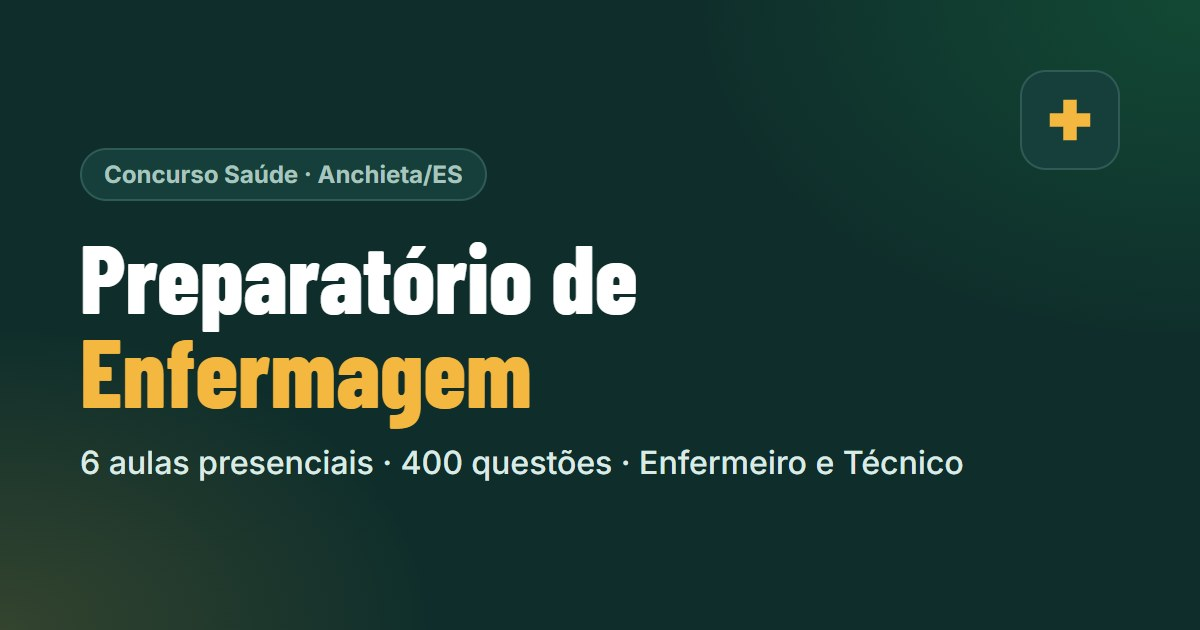
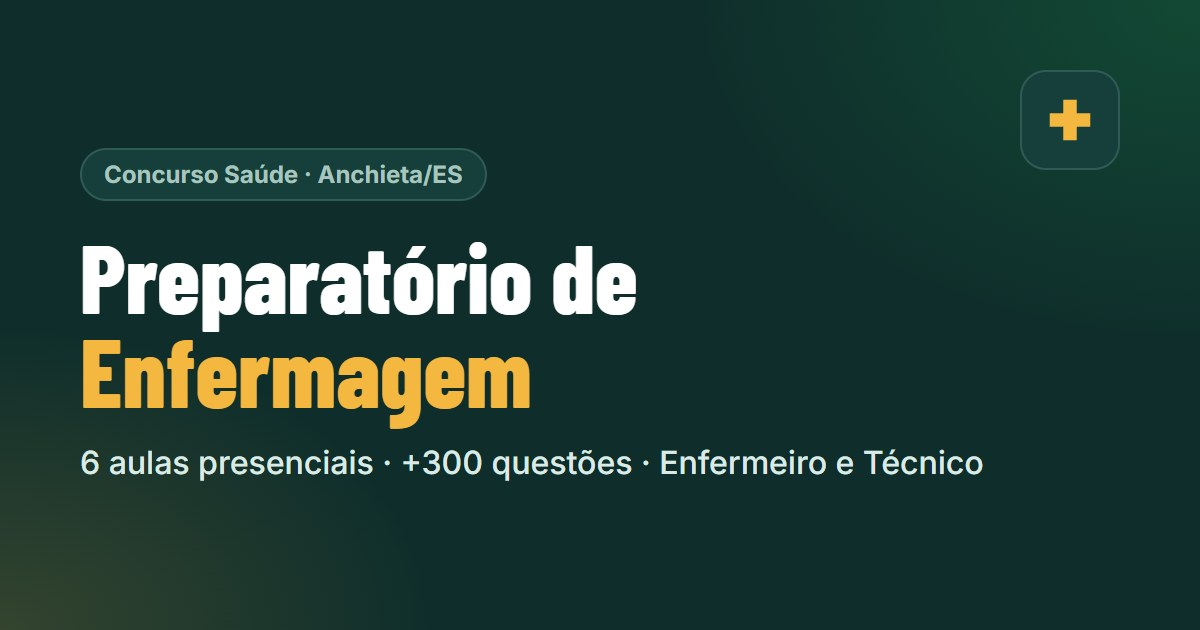
"Mais de 300 questoes" em toda a pagina e botoes centralizados no PC
- 400 trocado por "mais de 300"/"+300" no resumo, na lista, no botao, nas descricoes e na imagem de compartilhamento
- Botoes centralizados em telas de computador

Changed region(s): [[0.3392, 0.6937, 0.8325, 0.754]]

diff --git a/index.html b/index.html
@@ -4,14 +4,14 @@
 <meta charset="UTF-8">
 <meta name="viewport" content="width=device-width, initial-scale=1, viewport-fit=cover">
 <title>Preparatório de Enfermagem · Concurso Saúde Anchieta/ES</title>
-<meta name="description" content="Preparatório presencial para Enfermeiros e Técnicos de Enfermagem do concurso da Saúde de Anchieta/ES: 6 aulas de 6 horas, 400 questões e suporte no WhatsApp.">
+<meta name="description" content="Preparatório presencial para Enfermeiros e Técnicos de Enfermagem do concurso da Saúde de Anchieta/ES: 6 aulas de 6 horas, mais de 300 questões e suporte no WhatsApp.">
 <meta name="theme-color" content="#0F2E2B">
 
 <!-- Open Graph: aparência do link no WhatsApp e nas redes -->
 <meta property="og:type" content="website">
 <meta property="og:locale" content="pt_BR">
 <meta property="og:title" content="Preparatório de Enfermagem · Concurso Saúde Anchieta/ES">
-<meta property="og:description" content="6 aulas presenciais de 6 horas, 400 questões e suporte no WhatsApp, com uma equipe liderada pela Enfermeira Brenda Vaillant.">
+<meta property="og:description" content="6 aulas presenciais de 6 horas, mais de 300 questões e suporte no WhatsApp, com uma equipe liderada pela Enfermeira Brenda Vaillant.">
 <meta property="og:image" content="assets/og.jpg">
 <!-- Ao publicar, troque por endereços completos: [URL DO SITE]/assets/og.jpg e og:url = [URL DO SITE] -->
 
@@ -55,7 +55,7 @@
         <p class="hero-resumo-titulo">Preparatório Completo</p>
         <ul>
           <li><strong>6 aulas</strong><span>presenciais de 6 horas</span></li>
-          <li><strong data-contar="400">400</strong><span>questões para treinar</span></li>
+          <li><strong>+<span data-contar="300">300</span></strong><span>questões para treinar</span></li>
           <li><strong>2 cargos</strong><span>Enfermeiro e Técnico</span></li>
         </ul>
         <p class="hero-resumo-equipe">Equipe de professores liderada pela Enfermeira Brenda Vaillant</p>
@@ -181,8 +181,8 @@
         <li class="revelar"><span class="check" aria-hidden="true"></span><span><strong>Simulado final com 50 questões</strong></span></li>
         <li class="revelar"><span class="check" aria-hidden="true"></span><span><strong>Suporte no WhatsApp</strong> para tirar dúvidas</span></li>
       </ul>
-      <p class="total-questoes revelar">São <strong><span data-contar="400">400</span> questões</strong> para você treinar até a prova.</p>
-      <a class="botao botao-grande" data-cta="pilha-de-valor" href="https://chat.whatsapp.com/J3gs56NgzSqK2GQkw09Z9s?s=cl&amp;p=i&amp;mlu=4&amp;ilr=4&amp;iam=2" target="_blank" rel="noopener">Quero as 400 questões</a>
+      <p class="total-questoes revelar">São <strong>mais de <span data-contar="300">300</span> questões</strong> para você treinar até a prova.</p>
+      <a class="botao botao-grande" data-cta="pilha-de-valor" href="https://chat.whatsapp.com/J3gs56NgzSqK2GQkw09Z9s?s=cl&amp;p=i&amp;mlu=4&amp;ilr=4&amp;iam=2" target="_blank" rel="noopener">Quero treinar com +300 questões</a>
     </div>
   </section>
 

diff --git a/styles.css b/styles.css
@@ -99,7 +99,7 @@ a { color: inherit; }
 .hero-resumo li { display: flex; align-items: baseline; gap: 12px; padding-bottom: 14px; border-bottom: 1px solid var(--borda); }
 .hero-resumo li:last-child { border-bottom: 0; padding-bottom: 0; }
 .hero-resumo strong { font-family: 'Barlow Condensed', sans-serif; font-weight: 800; font-size: 2.4rem; line-height: 1; color: var(--ambar); min-width: 128px; white-space: nowrap; }
-.hero-resumo span { color: #DCEAE6; }
+.hero-resumo li > span { color: #DCEAE6; }
 .hero-resumo-equipe { margin-top: 18px; padding-top: 16px; border-top: 1px solid var(--borda); font-size: .9rem; color: var(--texto-2); }
 
 /* ===== Números ===== */
@@ -413,4 +413,10 @@ a { color: inherit; }
   .js .anima-linha::before { transform: none; }
   .hero h1 .destaque { background-size: 100% 4px; }
   .progresso-leitura { display: none; }
+}
+
+/* Botões centralizados na tela do computador */
+@media (min-width: 900px) {
+  a.botao[data-cta]:not([data-cta="barra-celular"]) { display: flex; width: fit-content; margin-inline: auto; }
+  .hero-texto .micro { text-align: center; }
 }
